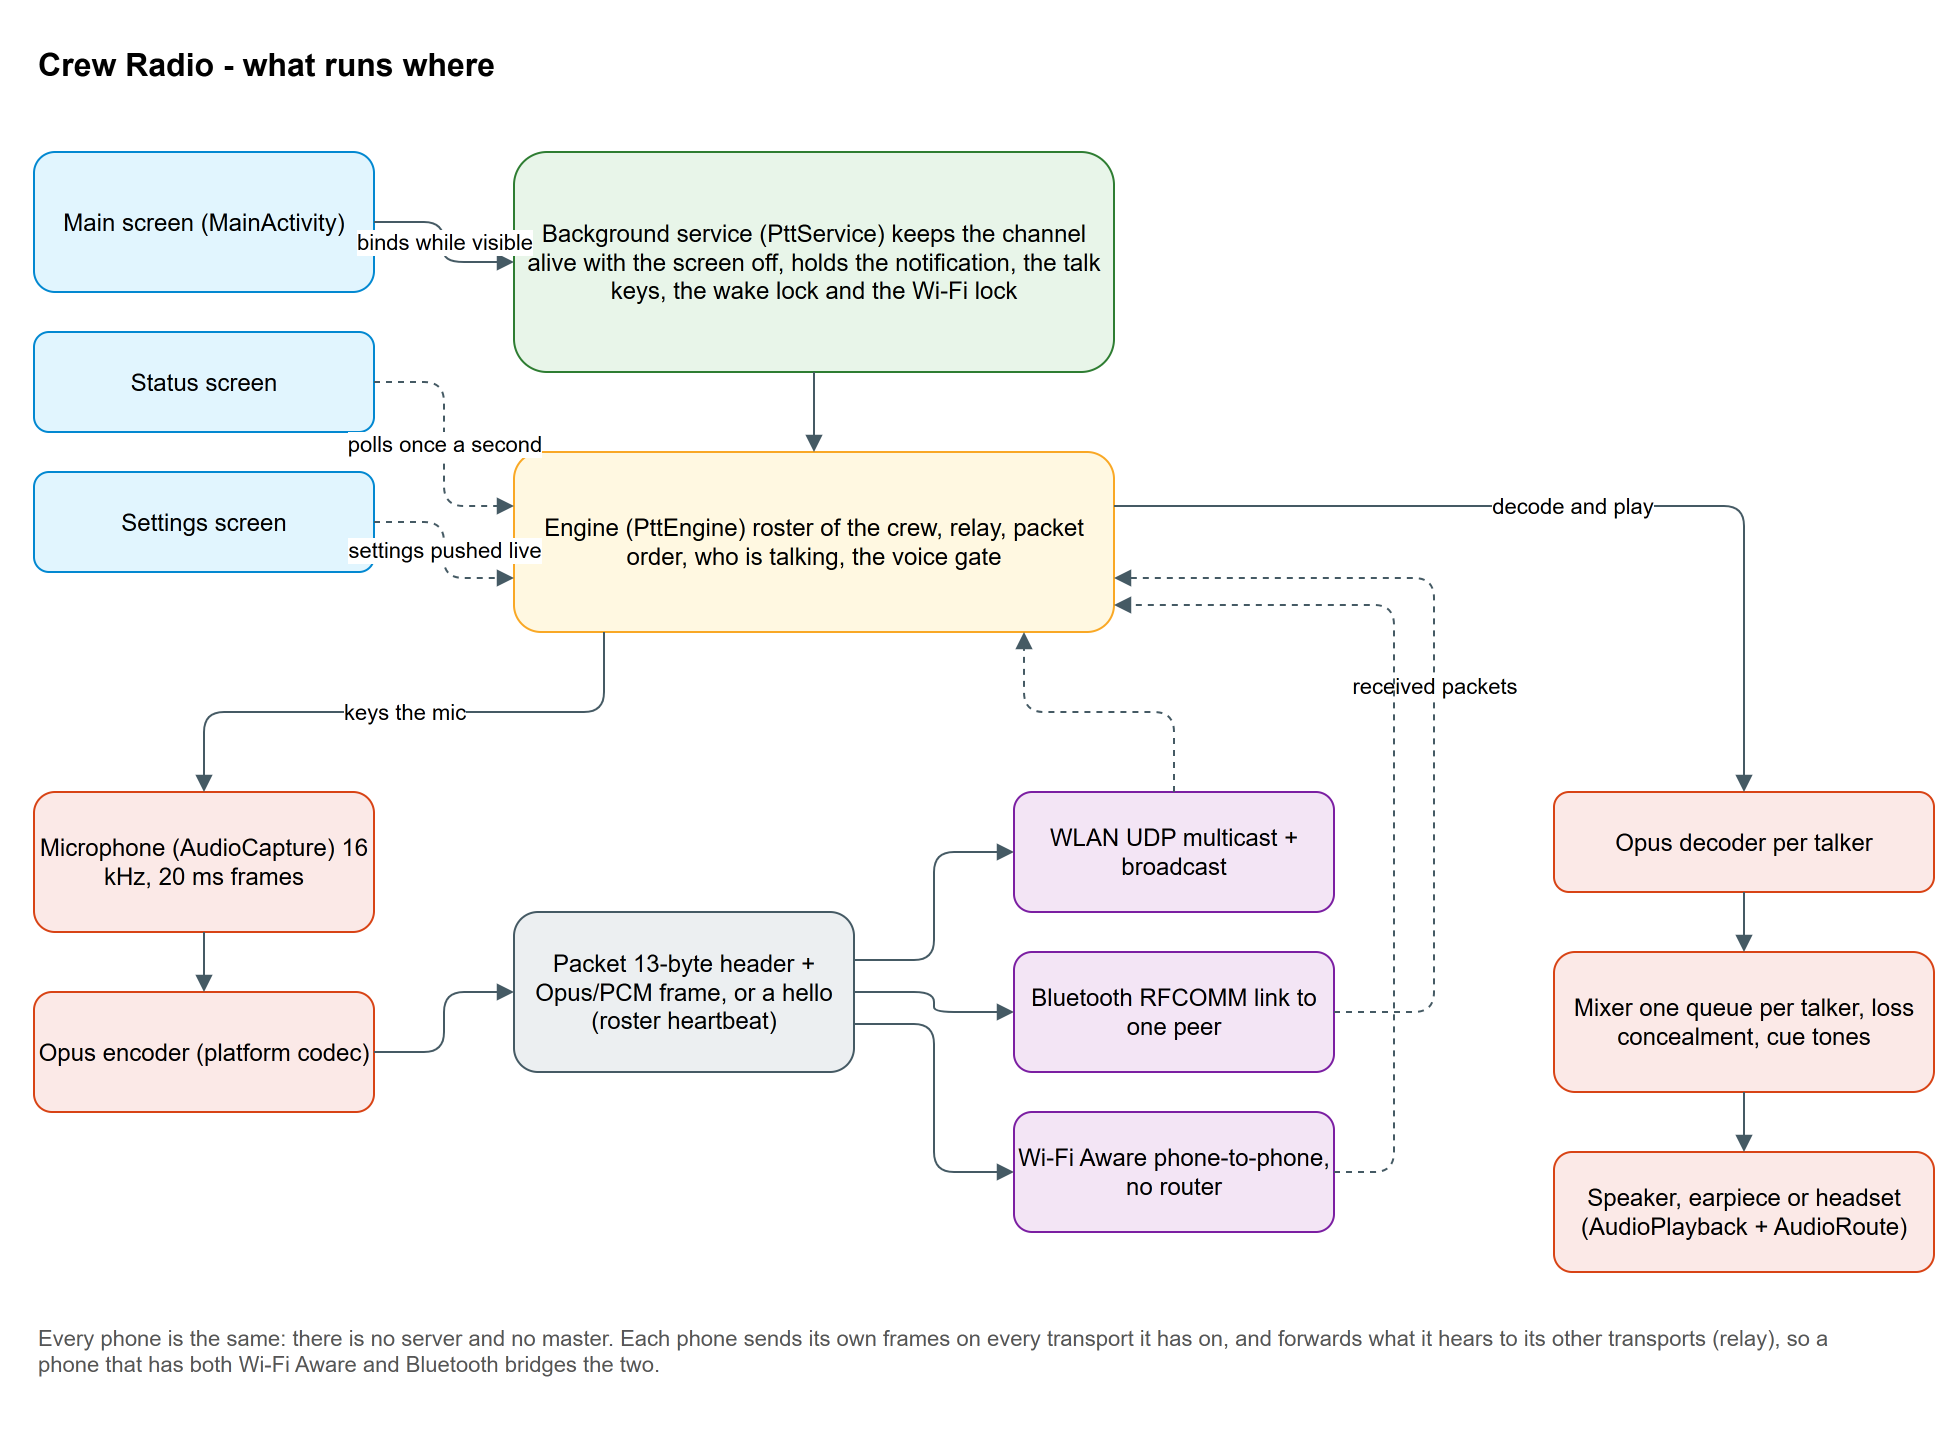
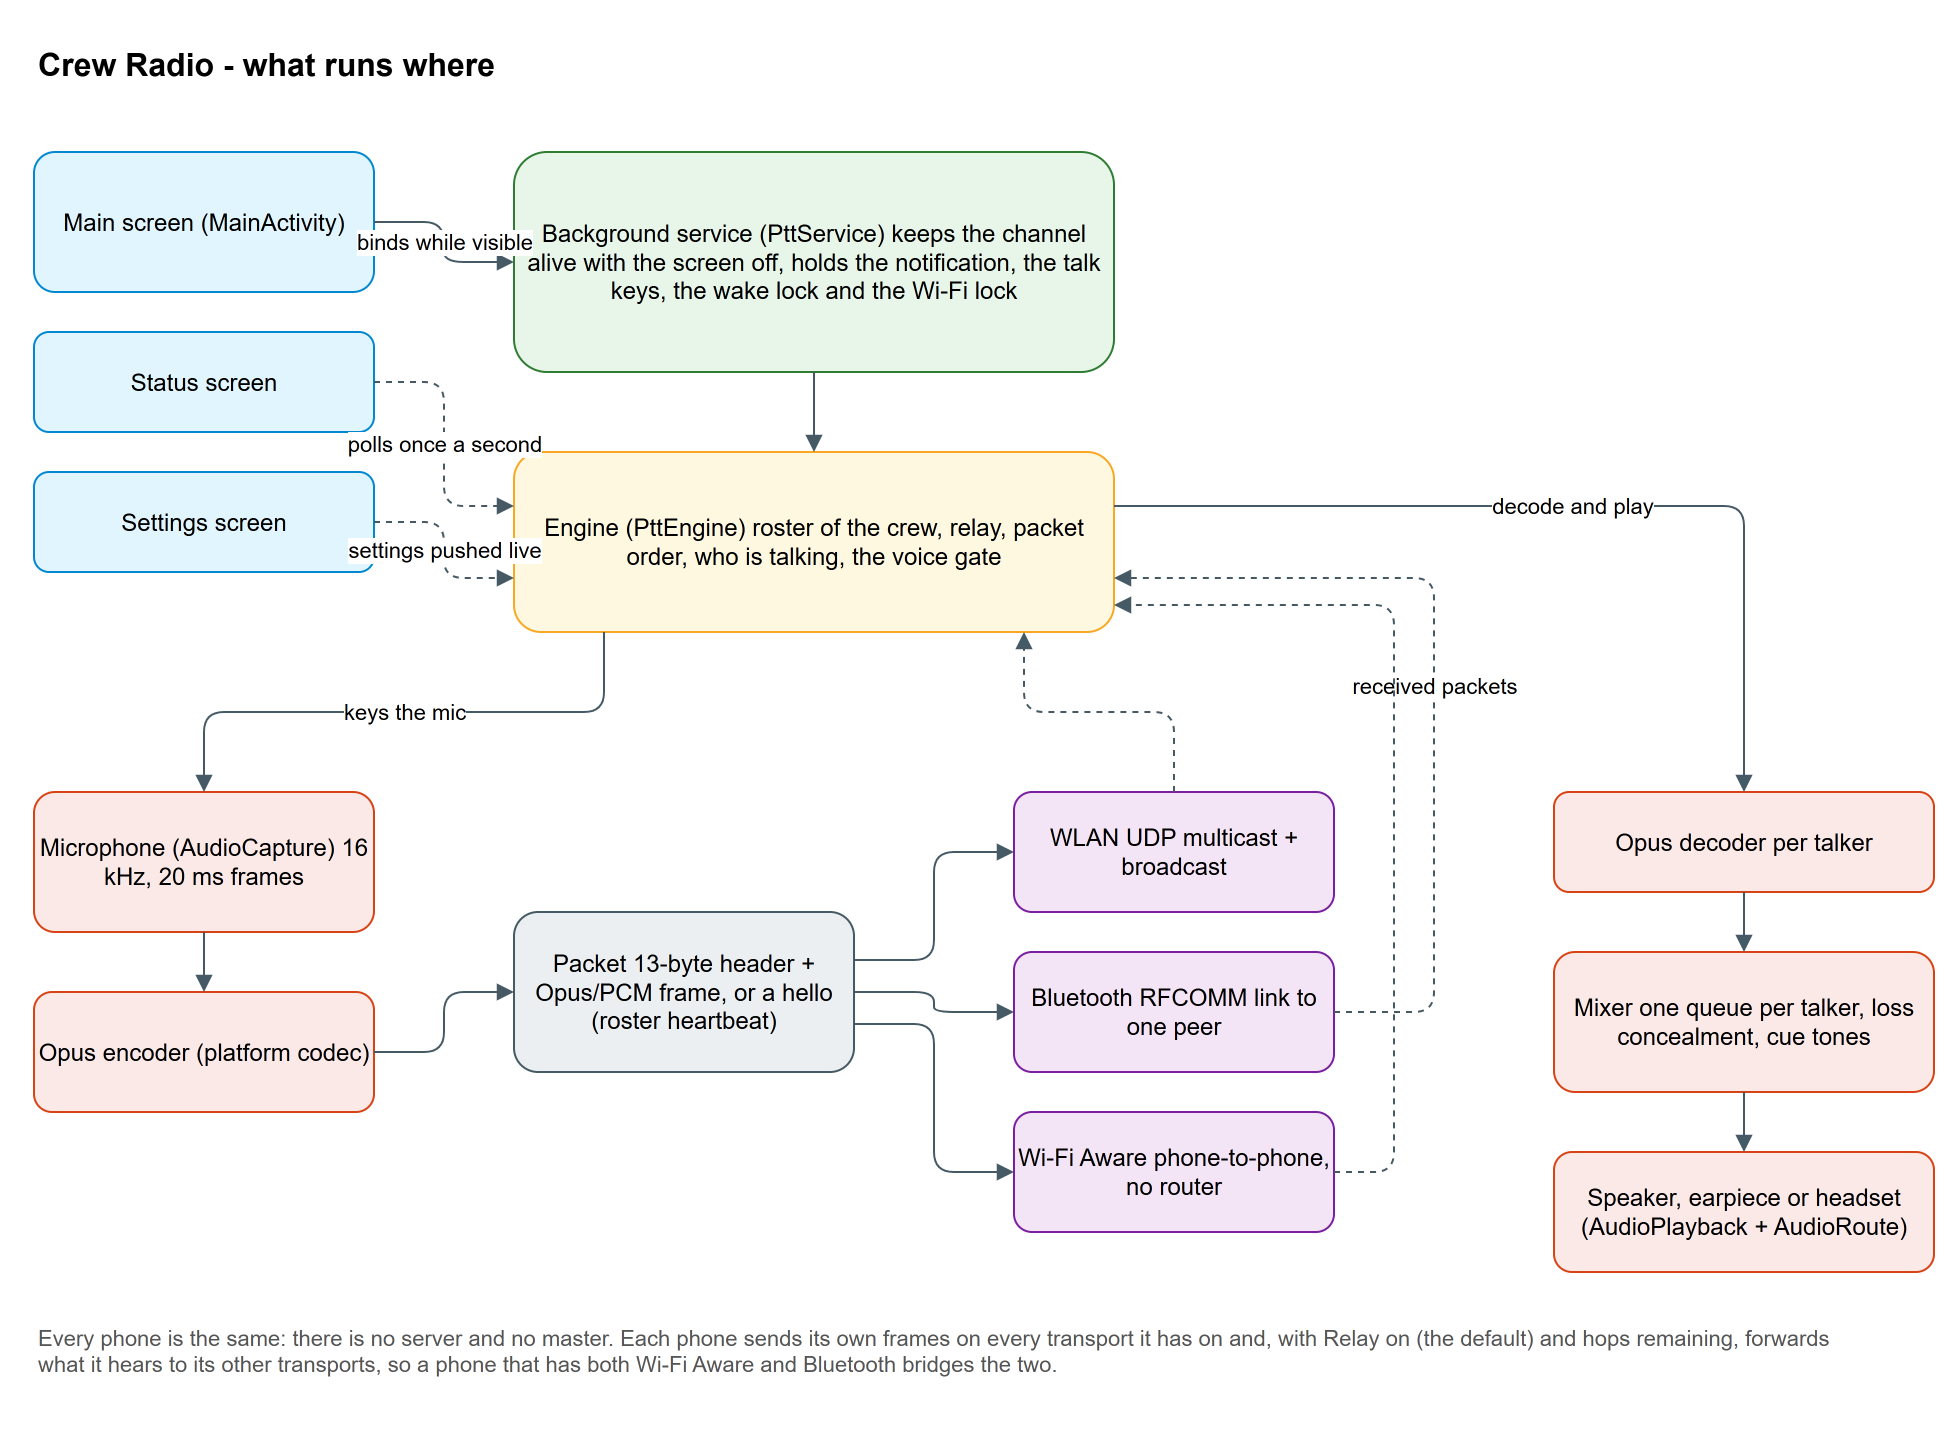
Address review: per-kind dedup key, relay is a setting, qualified notes, settings mock-up fits
- ARCHITECTURE.md and the packet-flow diagram: the seen-cache key includes the packet kind
  (audio and hellos number themselves independently).
- Architecture note: relay is conditional on the setting and on remaining hops.
- Audio-route note: live re-routing applies to the default setting; the forced ones ignore
  headsets and the ear.
- Links diagram: Bluetooth works with any Android 10+ phone; Relay is drawn as a dashed
  behaviour box, not as a fourth link, and the caption names the three links.
- Settings mock-up: summaries get height by length, the duplex summary describes both
  states, and the frame is tall enough for every row.

Changed region(s): [[0.0312, 0.931, 0.531, 0.9621], [0.6247, 0.9, 0.937, 0.931]]

diff --git a/docs/diagrams/make_diagrams.py b/docs/diagrams/make_diagrams.py
@@ -183,7 +183,7 @@ def status_screen(p, x, y):
 
 
 def settings_screen(p, x, y):
-    n = [frame(p + "f", x, y)]
+    n = [frame(p + "f", x, y, h=880)]
     n.append(rect(p + "bar", x + 2, y + 2, 356, 56, fill="#161C21", stroke="#161C21", arc=0))
     n.append(txt(p + "back", "←", x + 18, y + 12, 30, 36, 20, TEXT, align="center"))
     n.append(txt(p + "ttl", "Settings", x + 56, y + 12, 200, 36, 20, TEXT, mono=False))
@@ -191,7 +191,7 @@ def settings_screen(p, x, y):
         ("cat", "Me", None), ("row", "My name", "Deckhand"),
         ("cat", "Channel", None), ("row", "Channel name", "CREW RADIO"),
         ("cat", "Talking", None),
-        ("sw", "Full duplex", "Hold the big button to talk; others are muted while you hold it.", False),
+        ("sw", "Full duplex", "Off: hold to talk, others muted meanwhile. On: tap to toggle, everyone heard at once.", False),
         ("row", "Talk button", "Headset button and volume keys"),
         ("row", "Audio output", "Headset when connected; else earpiece at the ear, loudspeaker otherwise"),
         ("sw", "Voice keys the mic", "With a Bluetooth headset: just speak.", False),
@@ -207,14 +207,16 @@ def settings_screen(p, x, y):
             n.append(txt(p + f"i{i}", it[1], x + 60, cy, 200, 20, 12, CYAN, mono=False))
             cy += 30
         elif kind == "row":
+            lines = 1 + len(it[2]) // 44
             n.append(txt(p + f"i{i}", it[1], x + 60, cy, 260, 22, 15, TEXT, mono=False))
-            n.append(txt(p + f"s{i}", it[2], x + 60, cy + 22, 260, 18, 11, MUTED, mono=False))
-            cy += 54
+            n.append(txt(p + f"s{i}", it[2], x + 60, cy + 22, 260, 16 * lines + 4, 11, MUTED, mono=False))
+            cy += 34 + 16 * lines + 8
         else:
+            lines = 1 + len(it[2]) // 40
             n.append(txt(p + f"i{i}", it[1], x + 60, cy, 220, 22, 15, TEXT, mono=False))
-            n.append(txt(p + f"s{i}", it[2], x + 60, cy + 22, 220, 18, 10, MUTED, mono=False))
-            n += toggle(p + f"g{i}", x + 288, cy + 10, it[3])
-            cy += 54
+            n.append(txt(p + f"s{i}", it[2], x + 60, cy + 22, 220, 15 * lines + 4, 10, MUTED, mono=False))
+            n += toggle(p + f"g{i}", x + 288, cy + 8 + 7 * lines, it[3])
+            cy += 34 + 15 * lines + 8
     return n
 
 
@@ -230,7 +232,7 @@ diagram("screens", "The screens", nodes=(
 diagram("screen-main", "Main screen", nodes=main_screen("a", 20, 20, "on"), edges=[], width=400, height=800)
 diagram("screen-on-air", "On air", nodes=main_screen("a", 20, 20, "air"), edges=[], width=400, height=800)
 diagram("screen-status", "Status screen", nodes=status_screen("s", 20, 20), edges=[], width=400, height=800)
-diagram("screen-settings", "Settings screen", nodes=settings_screen("s", 20, 20), edges=[], width=400, height=800)
+diagram("screen-settings", "Settings screen", nodes=settings_screen("s", 20, 20), edges=[], width=400, height=920)
 
 
 # ================================================================ flowcharts
@@ -255,8 +257,8 @@ diagram("architecture", "How the app is built", nodes=[
     ("mix", "Mixer" + NL + "one queue per talker," + NL + "loss concealment, cue tones", 800, 480, 190, 70, AUDIO),
     ("play", "Speaker, earpiece or headset" + NL + "(AudioPlayback + AudioRoute)", 800, 580, 190, 60, AUDIO),
     ("n1", "Every phone is the same: there is no server and no master. Each phone sends its own frames on every"
-     + NL + "transport it has on, and forwards what it hears to its other transports (relay), so a phone that has"
-     + NL + "both Wi-Fi Aware and Bluetooth bridges the two.", 40, 660, 900, 60, NOTE),
+     + NL + "transport it has on and, with Relay on (the default) and hops remaining, forwards what it hears to its"
+     + NL + "other transports, so a phone that has both Wi-Fi Aware and Bluetooth bridges the two.", 40, 660, 900, 60, NOTE),
 ], edges=[
     ("ui", "svc", "binds while visible", EDGE),
     ("st", "eng", "polls once a second", EDGE_DASH + "exitX=1;exitY=0.5;entryX=0;entryY=0.3;"),
@@ -281,7 +283,7 @@ diagram("packet-flow", "What happens to a received packet", nodes=[
     ("t", "A packet arrives on any transport", 40, 20, 500, 30, TITLE),
     ("s", "packet", 40, 70, 100, 50, START),
     ("d1", "our own?", 200, 60, 120, 70, DECISION),
-    ("d2", "seen before?" + NL + "(sender + number)", 370, 60, 140, 70, DECISION),
+    ("d2", "seen before?" + NL + "(kind, sender, number)", 370, 60, 140, 70, DECISION),
     ("r", "relay: forward to every other transport" + NL + "and link, hop count minus one" + NL + "(if relay is on and hops remain)",
      560, 60, 260, 70, STEP),
     ("drop", "drop", 210, 170, 100, 50, END),
@@ -349,8 +351,9 @@ diagram("audio-route", "Where the voice goes", nodes=[
     ("ep", "Earpiece" + NL + "+ voice keys the mic" + NL + "+ screen dark", 780, 380, 150, 70, END),
     ("sp2", "Loudspeaker" + NL + "+ the button", 780, 470, 150, 50, END),
     ("ep2", "Earpiece always" + NL + "(voice keys the mic at the ear)", 200, 480, 200, 60, END),
-    ("n", "The route follows changes live: connect a headset and the voice moves to it,"
-     + NL + "lift the phone to your ear and it becomes a phone call, put it down and it is a radio again.", 40, 570, 640, 50, NOTE),
+    ("n", "With the default setting the route follows changes live: connect a headset and the voice moves to it,"
+     + NL + "lift the phone to your ear and it becomes a phone call, put it down and it is a radio again."
+     + NL + "The two forced settings ignore headsets and the ear.", 40, 570, 700, 60, NOTE),
 ], edges=[
     ("s", "d0", "", EDGE),
     ("d0", "sp", "always the loudspeaker", EDGE),
@@ -387,13 +390,14 @@ diagram("links", "One app, every link", nodes=[
     ("p", "Your phone" + NL + "Crew Radio", 340, 200, 160, 70, PHONE),
     ("l1", "WLAN" + NL + "the boat's router or a hotspot:" + NL + "everyone on the same network", 40, 80, 220, 70, NET),
     ("l2", "Wi-Fi Aware" + NL + "phone to phone, no router," + NL + "Wi-Fi range", 40, 320, 220, 70, NET),
-    ("l3", "Bluetooth" + NL + "phone to phone, close range," + NL + "any Android phone", 580, 80, 220, 70, NET),
-    ("l4", "Relay" + NL + "what one phone hears on one link" + NL + "it repeats on its other links", 580, 320, 220, 70, ENGINE),
-    ("n", "Tick the links you have. Phones find each other, no server, no account, no internet."
+    ("l3", "Bluetooth" + NL + "phone to phone, close range," + NL + "any Android 10+ phone", 580, 80, 220, 70, NET),
+    ("l4", "Relay (a setting, on by default, not a link):" + NL + "what this phone hears on one link it repeats on its other links,"
+     + NL + "up to the hop limit, so it bridges them", 300, 320, 480, 60, ENGINE + "dashed=1;"),
+    ("n", "Tick the links you have (WLAN, Wi-Fi Aware, Bluetooth). Phones find each other, no server, no account, no internet."
      + NL + "Lose one link and the others carry on; a phone in the middle bridges the rest.", 40, 440, 760, 40, NOTE),
 ], edges=[
     ("p", "l1", "", EDGE_BI + "strokeColor=#7B1FA2;"),
     ("p", "l2", "", EDGE_BI + "strokeColor=#7B1FA2;"),
     ("p", "l3", "", EDGE_BI + "strokeColor=#0288D1;"),
-    ("p", "l4", "", EDGE_BI + "strokeColor=#F9A825;"),
+    ("p", "l4", "", EDGE_DASH + "strokeColor=#F9A825;endArrow=none;"),
 ], width=860, height=520)

diff --git a/docs/ARCHITECTURE.md b/docs/ARCHITECTURE.md
@@ -58,8 +58,9 @@ flags, hop budget). Audio frames and hellos number themselves independently per 
 
 ![What happens to a received packet](images/packet-flow.png)
 
-Relay is application-level flooding with two brakes: a seen-cache keyed by (sender, number)
-drops copies that arrive by two paths, and the ttl (clamped to this phone's own hop limit,
+Relay is application-level flooding with two brakes: a seen-cache keyed by (sender, number),
+one cache per packet kind because audio and hellos number themselves independently, drops
+copies that arrive by two paths, and the ttl (clamped to this phone's own hop limit,
 then decremented in place) stops circulation. A packet is forwarded to every *other*
 transport, and, on transports with several links (Bluetooth, Aware), to the other links of the
 same transport. `LanTransport` sends every frame twice, to the multicast group and to the
